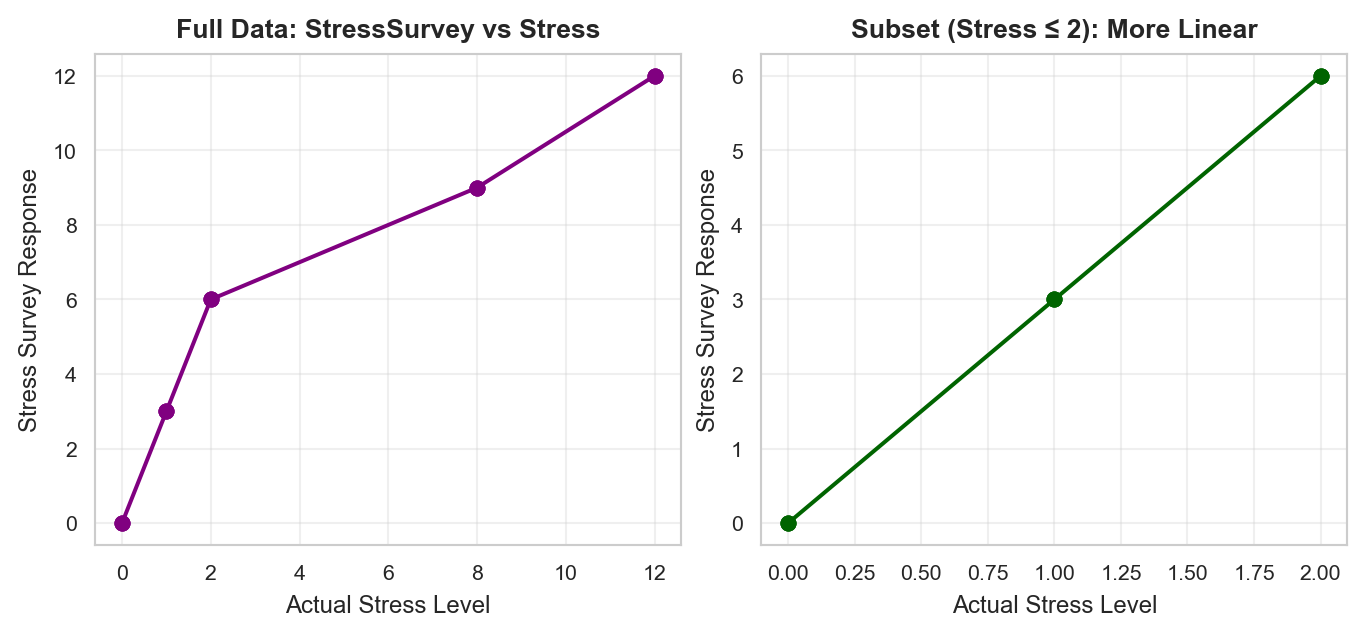
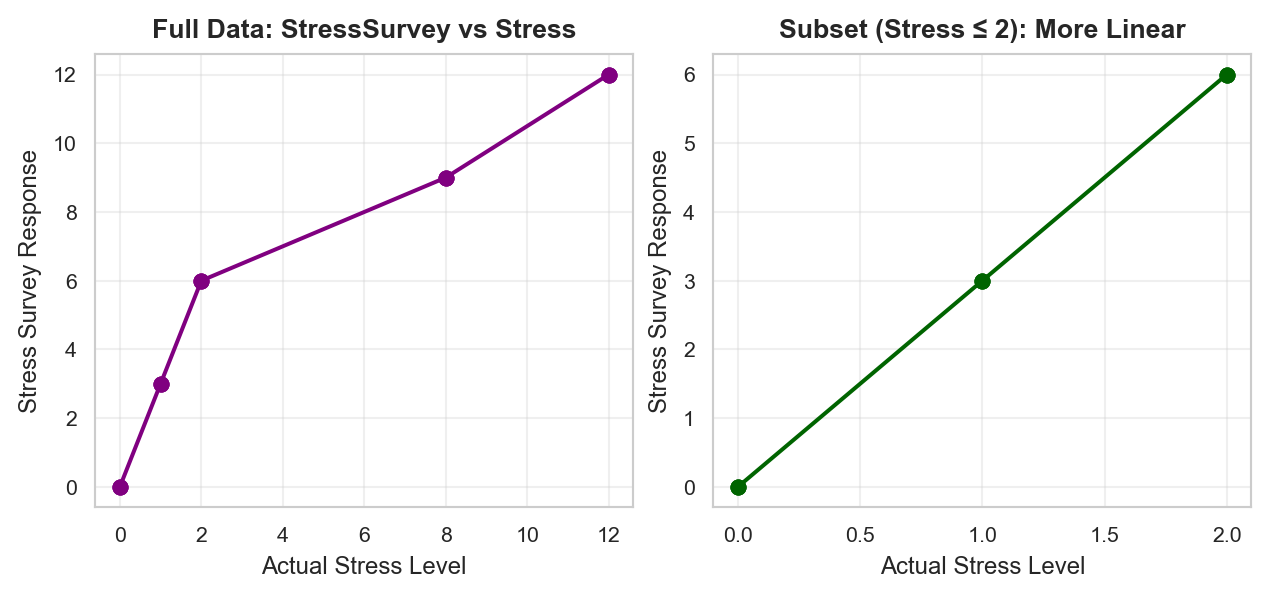
formatting changes

diff --git a/index.html b/index.html
@@ -597,7 +597,7 @@ Figure&nbsp;1: StressSurvey as a proxy for actual Stress levels
 <h2 class="anchored" data-anchor-id="question-1.-bivariate-regression-analysis-with-stresssurvey"><span style="color:brown; font-style:italic;">Question 1. Bivariate Regression Analysis with StressSurvey:</span></h2>
 <p>Run a bivariate regression of Anxiety on StressSurvey. What are the estimated coefficients? How do they compare to the true relationship?</p>
 <p><span style="color:brown; font-style:italic; font-weight:bold;">Answer:</span></p>
-<div id="5764336c" class="cell" data-execution_count="4">
+<div id="f1ec2456" class="cell" data-execution_count="4">
 <div class="cell-output cell-output-stdout">
 <pre><code>Bivariate Regression: Anxiety ~ StressSurvey
 ==================================================
@@ -607,7 +607,7 @@ Dep. Variable:                Anxiety   R-squared:                       0.901
 Model:                            OLS   Adj. R-squared:                  0.893
 Method:                 Least Squares   F-statistic:                     118.4
 Date:                Wed, 12 Nov 2025   Prob (F-statistic):           6.68e-08
-Time:                        22:37:45   Log-Likelihood:                -27.079
+Time:                        22:48:41   Log-Likelihood:                -27.079
 No. Observations:                  15   AIC:                             58.16
 Df Residuals:                      13   BIC:                             59.57
 Df Model:                           1                                         
@@ -672,7 +672,7 @@ Figure&nbsp;2: Bivariate relationship between StressSurvey and Anxiety with regr
 <h2 class="anchored" data-anchor-id="question-3.-bivariate-regression-analysis-with-time"><span style="color:brown; font-style:italic;">Question 3. Bivariate Regression Analysis with Time:</span></h2>
 <p>Run a bivariate regression of Anxiety on Time. What are the estimated coefficients? How do they compare to the true relationship?</p>
 <p><span style="color:brown; font-style:italic; font-weight:bold;">Answer:</span></p>
-<div id="ada39c08" class="cell" data-execution_count="6">
+<div id="69a413b7" class="cell" data-execution_count="6">
 <div class="cell-output cell-output-stdout">
 <pre><code>Bivariate Regression: Anxiety ~ Time
 ==================================================
@@ -682,7 +682,7 @@ Dep. Variable:                Anxiety   R-squared:                       0.563
 Model:                            OLS   Adj. R-squared:                  0.529
 Method:                 Least Squares   F-statistic:                     16.75
 Date:                Wed, 12 Nov 2025   Prob (F-statistic):            0.00127
-Time:                        22:37:45   Log-Likelihood:                -38.223
+Time:                        22:48:41   Log-Likelihood:                -38.223
 No. Observations:                  15   AIC:                             80.45
 Df Residuals:                      13   BIC:                             81.86
 Df Model:                           1                                         
@@ -750,7 +750,7 @@ Figure&nbsp;3: Bivariate relationship between Time and Anxiety with regression l
 <h2 class="anchored" data-anchor-id="question-5.-multiple-regression-analysis"><span style="color:brown; font-style:italic;">Question 5. Multiple Regression Analysis:</span></h2>
 <p>Run a multiple regression of Anxiety on both <strong>StressSurvey</strong> and Time. What are the estimated coefficients? How do they compare to the true relationship?</p>
 <p><span style="color:brown; font-style:italic; font-weight:bold;">Answer:</span></p>
-<div id="339f5b47" class="cell" data-execution_count="8">
+<div id="8d635762" class="cell" data-execution_count="8">
 <div class="cell-output cell-output-stdout">
 <pre><code>Multiple Regression: Anxiety ~ StressSurvey + Time
 ============================================================
@@ -760,7 +760,7 @@ Dep. Variable:                Anxiety   R-squared:                       0.935
 Model:                            OLS   Adj. R-squared:                  0.924
 Method:                 Least Squares   F-statistic:                     86.32
 Date:                Wed, 12 Nov 2025   Prob (F-statistic):           7.54e-08
-Time:                        22:37:45   Log-Likelihood:                -23.931
+Time:                        22:48:41   Log-Likelihood:                -23.931
 No. Observations:                  15   AIC:                             53.86
 Df Residuals:                      12   BIC:                             55.99
 Df Model:                           2                                         
@@ -840,7 +840,7 @@ When analyzing your multiple regression results, compare them to the **true rela
 <h2 class="anchored" data-anchor-id="question-6.-multiple-regression-analysis"><span style="color:brown; font-style:italic;">Question 6. Multiple Regression Analysis:</span></h2>
 <p>Run a multiple regression of Anxiety on both <strong>Stress</strong> and Time. What are the estimated coefficients? How do they compare to the true relationship?</p>
 <p><span style="color:brown; font-style:italic; font-weight:bold;">Answer:</span></p>
-<div id="fa242d62" class="cell" data-execution_count="9">
+<div id="5986ea4f" class="cell" data-execution_count="9">
 <div class="cell-output cell-output-stdout">
 <pre><code>Multiple Regression: Anxiety ~ Stress + Time
 ============================================================
@@ -850,7 +850,7 @@ Dep. Variable:                Anxiety   R-squared:                       1.000
 Model:                            OLS   Adj. R-squared:                  1.000
 Method:                 Least Squares   F-statistic:                 1.511e+31
 Date:                Wed, 12 Nov 2025   Prob (F-statistic):          3.92e-183
-Time:                        22:37:45   Log-Likelihood:                 480.58
+Time:                        22:48:41   Log-Likelihood:                 480.58
 No. Observations:                  15   AIC:                            -955.2
 Df Residuals:                      12   BIC:                            -953.0
 Df Model:                           2                                         
@@ -909,7 +909,7 @@ Estimated vs True:
 <h2 class="anchored" data-anchor-id="question-7.-model-comparison"><span style="color:brown; font-style:italic;">Question 7. Model Comparison:</span></h2>
 <p>Compare the R-squared values and coefficient interpretations between the two multiple regression models. Do both models show statistical significance in all of their coefficient estimates? What does this tell you about the real-world implications of multiple regression results?</p>
 <p><span style="color:brown; font-style:italic; font-weight:bold; text-align:justify;">Answer:</span></p>
-<div id="cee04015" class="cell" data-execution_count="10">
+<div id="86717997" class="cell" data-execution_count="10">
 <div class="cell-output cell-output-stdout">
 <pre><code>MODEL COMPARISON
 ================================================================================
@@ -1032,11 +1032,11 @@ KEY FINDINGS:
 <p>Reflect on this tip to avoid being misled by statistically significant results: splitting the sample into meaningful subsets (“statistical regimes”), and using graphical diagnostics for linearity rather than blind reliance on “canned” regressions. Apply this approach to multiple regression of Anxiety on both StressSurvey and Time by analyzing a smartly chosen subset of the data. What specific subset did you choose and why? Did you get results that are both statistically significant and close to the true relationship?</p>
 <p><span style="color:brown; font-style:italic; font-weight:bold; text-align:justify;">Answer:</span></p>
 <p>The key insight is to identify “statistical regimes” where the relationship might be more linear. Looking at the data, I notice that the non-linearity in the StressSurvey-Stress relationship is most pronounced at the extremes. Let me examine the relationship more carefully and choose a subset where StressSurvey and Stress have a more linear relationship.</p>
-<div id="d495a8ed" class="cell" data-fig-dpi="100" data-fig-height="3.2" data-fig-width="7" data-execution_count="11">
+<div id="5748e958" class="cell" data-fig-dpi="100" data-fig-height="3" data-fig-width="6.5" data-execution_count="11">
 <div class="cell-output cell-output-display">
 <div>
 <figure class="figure">
-<p><img src="index_files/figure-html/cell-12-output-1.png" width="683" height="318" class="figure-img"></p>
+<p><img src="index_files/figure-html/cell-12-output-1.png" width="635" height="299" class="figure-img"></p>
 </figure>
 </div>
 </div>
@@ -1059,7 +1059,7 @@ Subset size: 9 observations (out of 15 total)</code></pre>
 <li><p><strong>Meaningful Regime:</strong> This represents a “low-to-moderate stress” regime where the proxy variable maintains a linear relationship with the true variable.</p></li>
 </ol>
 <p>Now let’s run the multiple regression on this subset:</p>
-<div id="9837673f" class="cell" data-execution_count="12">
+<div id="b152a743" class="cell" data-execution_count="12">
 <div class="cell-output cell-output-stdout">
 <pre><code>Multiple Regression on Subset: Anxiety ~ StressSurvey + Time
 (Subset: Stress ≤ 2)
@@ -1070,7 +1070,7 @@ Dep. Variable:                Anxiety   R-squared:                       1.000
 Model:                            OLS   Adj. R-squared:                  1.000
 Method:                 Least Squares   F-statistic:                 4.892e+30
 Date:                Wed, 12 Nov 2025   Prob (F-statistic):           2.31e-91
-Time:                        22:37:45   Log-Likelihood:                 301.52
+Time:                        22:48:42   Log-Likelihood:                 301.52
 No. Observations:                   9   AIC:                            -597.0
 Df Residuals:                       6   BIC:                            -596.4
 Df Model:                           2                                         

diff --git a/styles.css b/styles.css
@@ -71,3 +71,47 @@ pre.mermaid.mermaid-js:not(:has(svg)) {
   overflow-x: auto !important;
 }
 
+/* Ensure quarto content container allows figures to fit */
+.quarto-content {
+  max-width: 100% !important;
+  overflow-x: visible !important;
+}
+
+/* Make sure figure output doesn't exceed container */
+.cell-output-display img,
+.cell-output-display svg,
+.cell-output-display figure {
+  max-width: 100% !important;
+  width: auto !important;
+  height: auto !important;
+  display: block !important;
+  margin: 0 auto !important;
+}
+
+/* Ensure subplot figures fit - important for side-by-side plots */
+.cell-output-display .figure,
+.cell-output-display .quarto-figure {
+  max-width: 100% !important;
+  width: 100% !important;
+  box-sizing: border-box !important;
+  overflow: visible !important;
+}
+
+.cell-output-display .figure img,
+.cell-output-display .quarto-figure img {
+  max-width: 100% !important;
+  width: 100% !important;
+  height: auto !important;
+}
+
+/* Main content area should allow wide figures */
+main.content {
+  max-width: 100% !important;
+  overflow-x: visible !important;
+}
+
+/* Ensure page columns don't constrain width */
+.page-columns {
+  max-width: 100% !important;
+}
+
